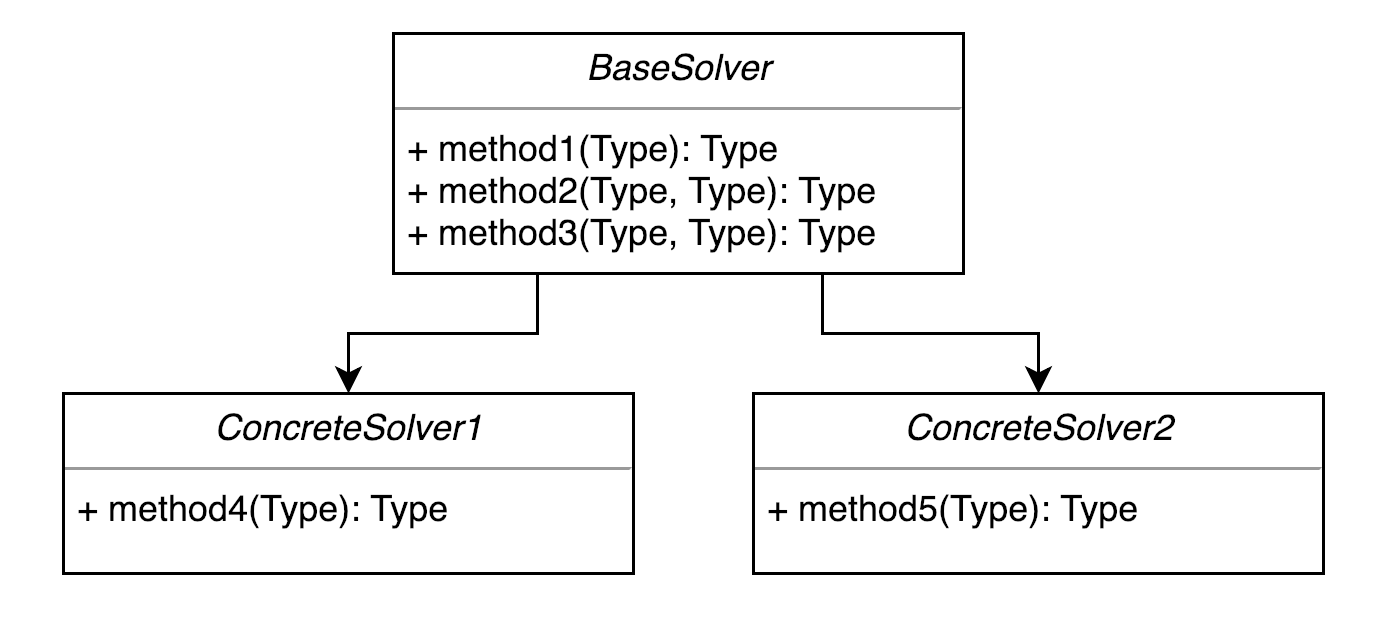
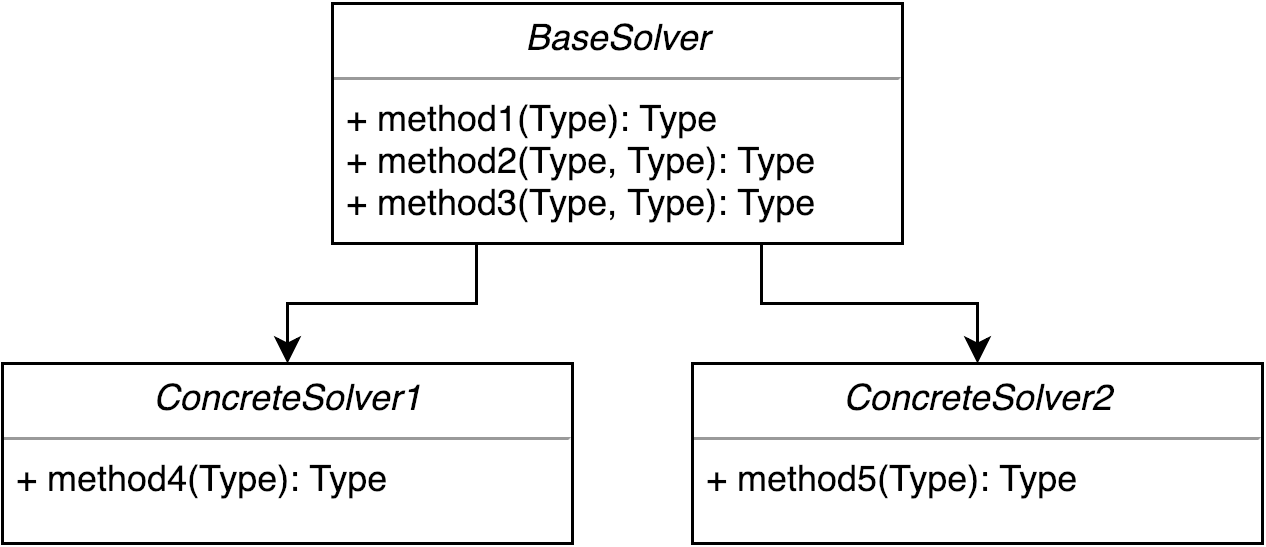
Crop figures in inheritance post

Changed region(s): [[0.0, 0.0, 1.0, 1.0], [0.0, 0.9634, 0.4621, 1.0]]

diff --git a/content/inheritance-coupling.md b/content/inheritance-coupling.md
@@ -47,7 +47,7 @@ The other day business decides to add the 3rd instance. And it needs only half o
 
 But something smells in this design. It doesn't look that good anymore.
 Shit hits the fan as soon as business needs a `ConcreteSolver4` with `method1` and `method2`.
-There a multiple ways of providing this but none of them are semantically correct.
+There are multiple ways of providing this but none of them are semantically correct.
 
 
 
